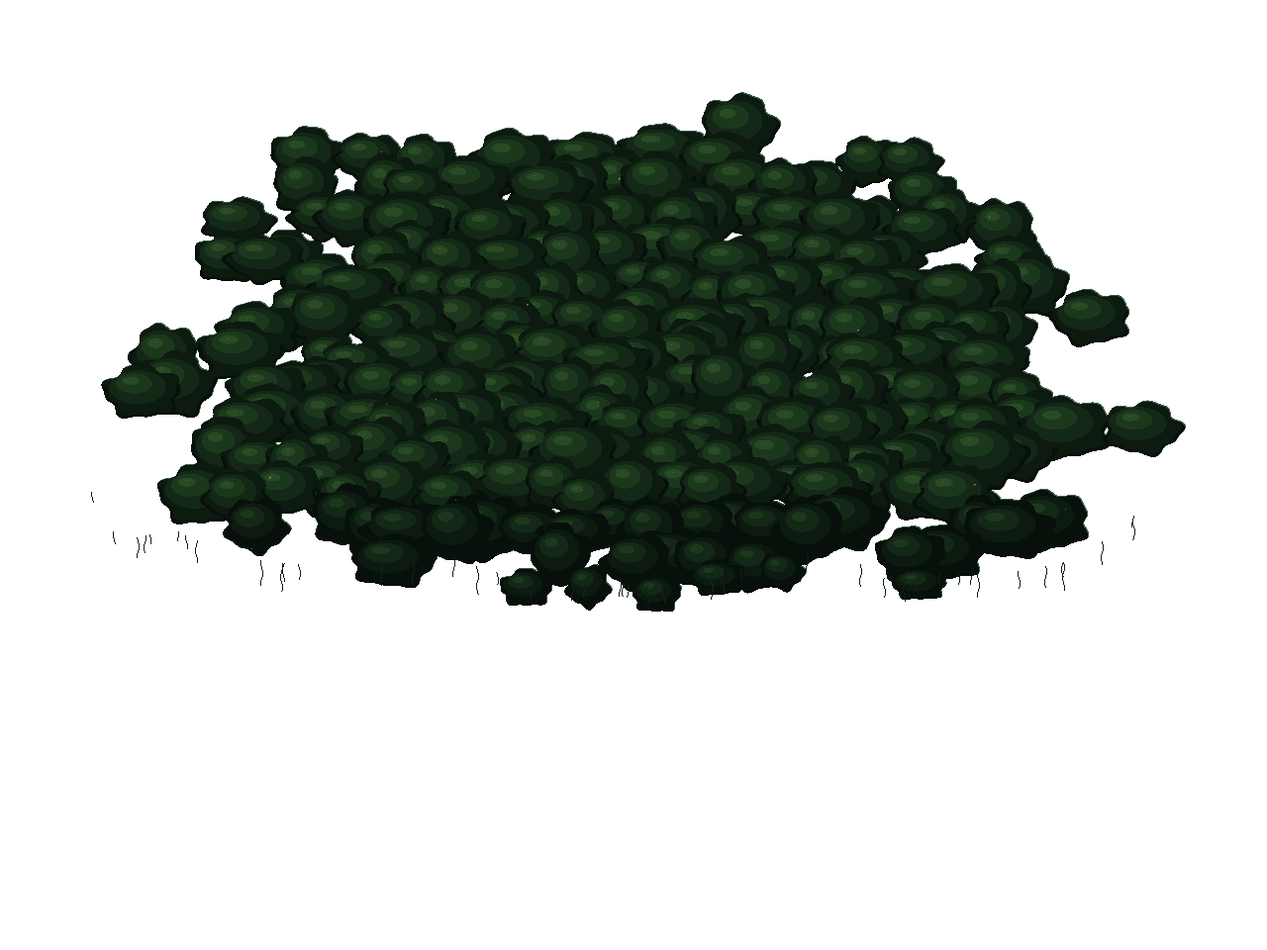
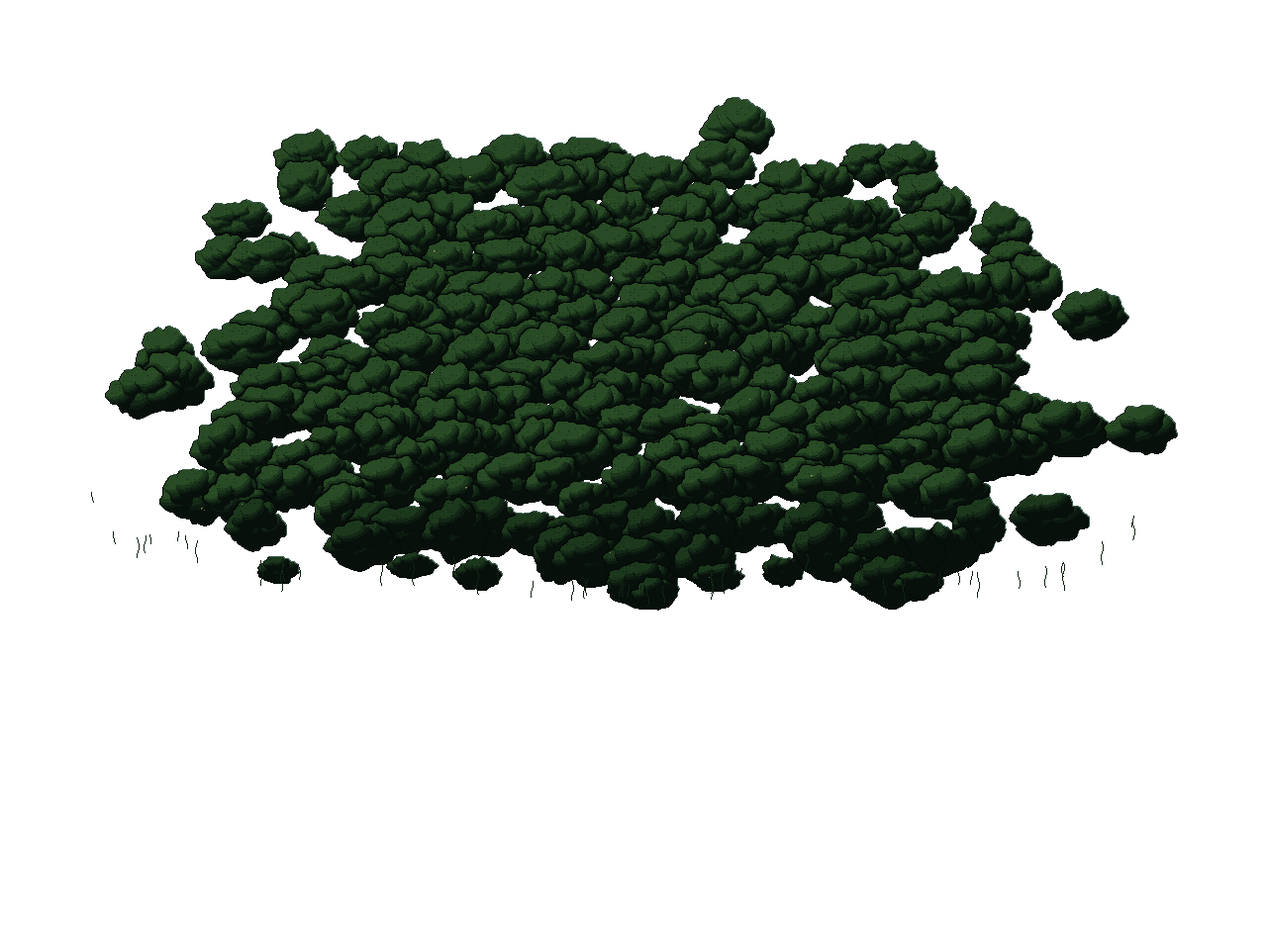
Memory Grove: detailed pixel crown and trunk
Each crown clump is now a cauliflower of bubbles lit from the top left,
with creases under each bump, leaf texture and a dark gap where a lower
clump sits in front; the crown darkens toward its underside. Trunk and
limb strands are shaded cylinders with a lit band and bark lines along
them. Colours unchanged.

Changed region(s): [[0.0625, 0.0938, 0.9375, 0.6562], [0.8438, 0.5312, 0.875, 0.5625], [0.75, 0.5938, 0.7812, 0.625]]

diff --git a/Project_T/tools/meta_art/grove_gen.html b/Project_T/tools/meta_art/grove_gen.html
@@ -7,12 +7,12 @@ const clamp = (v, a, b) => v < a ? a : v > b ? b : v;
 // ---------- art styles ----------
 const STYLES = [
   { id: "waystone", name: "Waystone pixel", short: "current", bands: 99, dither: 1, outline: "dark", px: 1, tone: null,
-    desc: "Full 64 px detail, 4â€“5 tone ramps with light dithering and dark outlines. Matches the Wardens and creatures you already have, so nothing else needs redrawing.",
+    desc: "Full 64 px detail, 4ÃƒÆ’Ã†â€™Ãƒâ€ Ã¢â‚¬â„¢ÃƒÆ’Ã¢â‚¬Å¡Ãƒâ€šÃ‚Â¢ÃƒÆ’Ã†â€™Ãƒâ€šÃ‚Â¢ÃƒÆ’Ã‚Â¢ÃƒÂ¢Ã¢â‚¬Å¡Ã‚Â¬Ãƒâ€¦Ã‚Â¡ÃƒÆ’Ã¢â‚¬Å¡Ãƒâ€šÃ‚Â¬ÃƒÆ’Ã†â€™Ãƒâ€šÃ‚Â¢ÃƒÆ’Ã‚Â¢ÃƒÂ¢Ã¢â€šÂ¬Ã…Â¡Ãƒâ€šÃ‚Â¬ÃƒÆ’Ã¢â‚¬Â¦ÃƒÂ¢Ã¢â€šÂ¬Ã…â€œ5 tone ramps with light dithering and dark outlines. Matches the Wardens and creatures you already have, so nothing else needs redrawing.",
     pro: "Nothing else needs redrawing.", con: "The busiest of the three. A crowded maze reads less clearly when zoomed out." },
-  { id: "storybook", name: "Storybook chunky", short: "32 px at 2Ã—", bands: 3, dither: 0, outline: "self", px: 2,
+  { id: "storybook", name: "Storybook chunky", short: "32 px at 2ÃƒÆ’Ã†â€™Ãƒâ€ Ã¢â‚¬â„¢ÃƒÆ’Ã¢â‚¬Â ÃƒÂ¢Ã¢â€šÂ¬Ã¢â€žÂ¢ÃƒÆ’Ã†â€™Ãƒâ€šÃ‚Â¢ÃƒÆ’Ã‚Â¢ÃƒÂ¢Ã¢â€šÂ¬Ã…Â¡Ãƒâ€šÃ‚Â¬ÃƒÆ’Ã‚Â¢ÃƒÂ¢Ã¢â‚¬Å¡Ã‚Â¬Ãƒâ€šÃ‚Â", bands: 3, dither: 0, outline: "self", px: 2,
     tone: { sat: .82, light: .1, tint: "#fff0dc", mix: .07 },
-    desc: "Drawn at 32 px and shown at 2Ã—. Three flat tones, no dithering, warmer and softer colours, and every object outlined in a darker shade of its own colour instead of a dark line.",
-    pro: "Bold shapes that stay readable zoomed out on a 45Ã—36 map. Soft, warm Wardens stand out well against the dark.", con: "Wardens and creatures would need redrawing at 32 px. The versions in the scene are rough automatic conversions." },
+    desc: "Drawn at 32 px and shown at 2ÃƒÆ’Ã†â€™Ãƒâ€ Ã¢â‚¬â„¢ÃƒÆ’Ã¢â‚¬Â ÃƒÂ¢Ã¢â€šÂ¬Ã¢â€žÂ¢ÃƒÆ’Ã†â€™Ãƒâ€šÃ‚Â¢ÃƒÆ’Ã‚Â¢ÃƒÂ¢Ã¢â€šÂ¬Ã…Â¡Ãƒâ€šÃ‚Â¬ÃƒÆ’Ã‚Â¢ÃƒÂ¢Ã¢â‚¬Å¡Ã‚Â¬Ãƒâ€šÃ‚Â. Three flat tones, no dithering, warmer and softer colours, and every object outlined in a darker shade of its own colour instead of a dark line.",
+    pro: "Bold shapes that stay readable zoomed out on a 45ÃƒÆ’Ã†â€™Ãƒâ€ Ã¢â‚¬â„¢ÃƒÆ’Ã¢â‚¬Â ÃƒÂ¢Ã¢â€šÂ¬Ã¢â€žÂ¢ÃƒÆ’Ã†â€™Ãƒâ€šÃ‚Â¢ÃƒÆ’Ã‚Â¢ÃƒÂ¢Ã¢â€šÂ¬Ã…Â¡Ãƒâ€šÃ‚Â¬ÃƒÆ’Ã‚Â¢ÃƒÂ¢Ã¢â‚¬Å¡Ã‚Â¬Ãƒâ€šÃ‚Â36 map. Soft, warm Wardens stand out well against the dark.", con: "Wardens and creatures would need redrawing at 32 px. The versions in the scene are rough automatic conversions." },
   { id: "papercut", name: "Papercut", short: "flat, no lines", bands: 3, dither: 0, outline: "none", px: 1, shadow: true,
     tone: { sat: .68, light: .06, tint: "#f3ead8", mix: .1 },
     desc: "Full resolution, flat three-tone shapes and no outlines. Each object has a light cut edge and a small offset shadow, like layered paper. Muted colours with a paper tint.",
@@ -135,7 +135,7 @@ function ellipse(L, cx, cy, rx, ry, col) {
       if (dx * dx + dy * dy <= 1) L.set(x, y, typeof col === "function" ? col(x, y, dx, dy) : col);
     }
 }
-// A shaded round mass: sphere lighting from the top left, quantised into the ramp (dark â†’ light).
+// A shaded round mass: sphere lighting from the top left, quantised into the ramp (dark ÃƒÆ’Ã†â€™Ãƒâ€ Ã¢â‚¬â„¢ÃƒÆ’Ã¢â‚¬Å¡Ãƒâ€šÃ‚Â¢ÃƒÆ’Ã†â€™Ãƒâ€šÃ‚Â¢ÃƒÆ’Ã‚Â¢ÃƒÂ¢Ã¢â€šÂ¬Ã…Â¡Ãƒâ€šÃ‚Â¬ÃƒÆ’Ã¢â‚¬Å¡Ãƒâ€šÃ‚Â ÃƒÆ’Ã†â€™Ãƒâ€šÃ‚Â¢ÃƒÆ’Ã‚Â¢ÃƒÂ¢Ã¢â€šÂ¬Ã…Â¡Ãƒâ€šÃ‚Â¬ÃƒÆ’Ã‚Â¢ÃƒÂ¢Ã¢â€šÂ¬Ã…Â¾Ãƒâ€šÃ‚Â¢ light).
 function blob(L, cx, cy, rx, ry, ramp, o = {}) {
   const lump = o.lump || 0, seed = o.seed || 0;
   for (let y = Math.floor(cy - ry * 1.3); y <= Math.ceil(cy + ry * 1.3); y++)
@@ -186,28 +186,28 @@ const BLIGHT = ["#0e0a14", "#1c1626", "#2c2438", "#3e344c", "#5a4e6a"];
 // Dark fairytale: grounds sit low in value and cool; the path is the palest, warmest ramp on the
 // map so it stays the most readable thing; obstacles sit between the two.
 const ACTS = [
-  { id:"edge", n:1, name:"Forest's Edge", drifts:"1â€“25", season:"Spring dusk", boss:"The Hollow Stag",
+  { id:"edge", n:1, name:"Forest's Edge", drifts:"1ÃƒÆ’Ã†â€™Ãƒâ€ Ã¢â‚¬â„¢ÃƒÆ’Ã¢â‚¬Å¡Ãƒâ€šÃ‚Â¢ÃƒÆ’Ã†â€™Ãƒâ€šÃ‚Â¢ÃƒÆ’Ã‚Â¢ÃƒÂ¢Ã¢â‚¬Å¡Ã‚Â¬Ãƒâ€¦Ã‚Â¡ÃƒÆ’Ã¢â‚¬Å¡Ãƒâ€šÃ‚Â¬ÃƒÆ’Ã†â€™Ãƒâ€šÃ‚Â¢ÃƒÆ’Ã‚Â¢ÃƒÂ¢Ã¢â€šÂ¬Ã…Â¡Ãƒâ€šÃ‚Â¬ÃƒÆ’Ã¢â‚¬Â¦ÃƒÂ¢Ã¢â€šÂ¬Ã…â€œ25", season:"Spring dusk", boss:"The Hollow Stag",
     swatch:"#4f7e4c",
     grass:["#14261e","#1c3a2a","#244a32","#33603e","#4f7e4c"],
     canopy:["#0a1410","#142a20","#1e3e2c","#2c5638","#4a7648"],
     bark:["#120c10","#2a1e22","#44323a","#645058"],
     path:["#6a5a58","#8e7e74","#b2a290","#d2c4ac"],
     dots:["#c8b8f0","#f0e8ff","#ffd27a"], accentName:"moonflower" },
-  { id:"deep", n:2, name:"Deep Wood", drifts:"26â€“50", season:"Summer night", boss:"The Mire Hag or the Moth Queen",
+  { id:"deep", n:2, name:"Deep Wood", drifts:"26ÃƒÆ’Ã†â€™Ãƒâ€ Ã¢â‚¬â„¢ÃƒÆ’Ã¢â‚¬Å¡Ãƒâ€šÃ‚Â¢ÃƒÆ’Ã†â€™Ãƒâ€šÃ‚Â¢ÃƒÆ’Ã‚Â¢ÃƒÂ¢Ã¢â‚¬Å¡Ã‚Â¬Ãƒâ€¦Ã‚Â¡ÃƒÆ’Ã¢â‚¬Å¡Ãƒâ€šÃ‚Â¬ÃƒÆ’Ã†â€™Ãƒâ€šÃ‚Â¢ÃƒÆ’Ã‚Â¢ÃƒÂ¢Ã¢â€šÂ¬Ã…Â¡Ãƒâ€šÃ‚Â¬ÃƒÆ’Ã¢â‚¬Â¦ÃƒÂ¢Ã¢â€šÂ¬Ã…â€œ50", season:"Summer night", boss:"The Mire Hag or the Moth Queen",
     swatch:"#386254",
     grass:["#0e1c1c","#142a2a","#1a3634","#244840","#386254"],
     canopy:["#060e0e","#0e2020","#163030","#204440","#346058"],
     bark:["#0e0a0e","#221a20","#3a2e36","#584a52"],
     path:["#5a5260","#7c7280","#9e94a0","#c4bac2"],
     dots:["#8ad8e8","#e0faff","#b0f0c0"], accentName:"glowcap" },
-  { id:"misty", n:3, name:"Misty Hollow", drifts:"51â€“75", season:"Autumn fog", boss:"the other act 2 boss",
+  { id:"misty", n:3, name:"Misty Hollow", drifts:"51ÃƒÆ’Ã†â€™Ãƒâ€ Ã¢â‚¬â„¢ÃƒÆ’Ã¢â‚¬Å¡Ãƒâ€šÃ‚Â¢ÃƒÆ’Ã†â€™Ãƒâ€šÃ‚Â¢ÃƒÆ’Ã‚Â¢ÃƒÂ¢Ã¢â‚¬Å¡Ã‚Â¬Ãƒâ€¦Ã‚Â¡ÃƒÆ’Ã¢â‚¬Å¡Ãƒâ€šÃ‚Â¬ÃƒÆ’Ã†â€™Ãƒâ€šÃ‚Â¢ÃƒÆ’Ã‚Â¢ÃƒÂ¢Ã¢â€šÂ¬Ã…Â¡Ãƒâ€šÃ‚Â¬ÃƒÆ’Ã¢â‚¬Â¦ÃƒÂ¢Ã¢â€šÂ¬Ã…â€œ75", season:"Autumn fog", boss:"the other act 2 boss",
     swatch:"#a85a34",
     grass:["#1c1e1a","#2a2c24","#3a3a2e","#4e4a3a","#6e6450"],
     canopy:["#140a0c","#2e1216","#4e1e1c","#7a3424","#a85a34"],
     bark:["#120a0c","#2a1a1c","#44302e","#644a44"],
     path:["#6a5e62","#8c8084","#aea2a2","#d0c4be"],
     dots:["#c0663a","#e8a060","#f0e0c8"], accentName:"ember leaf" },
-  { id:"glade", n:4, name:"Heartwood Glade", drifts:"76â€“100", season:"Winter dark", boss:"The Hollow Oak",
+  { id:"glade", n:4, name:"Heartwood Glade", drifts:"76ÃƒÆ’Ã†â€™Ãƒâ€ Ã¢â‚¬â„¢ÃƒÆ’Ã¢â‚¬Å¡Ãƒâ€šÃ‚Â¢ÃƒÆ’Ã†â€™Ãƒâ€šÃ‚Â¢ÃƒÆ’Ã‚Â¢ÃƒÂ¢Ã¢â‚¬Å¡Ã‚Â¬Ãƒâ€¦Ã‚Â¡ÃƒÆ’Ã¢â‚¬Å¡Ãƒâ€šÃ‚Â¬ÃƒÆ’Ã†â€™Ãƒâ€šÃ‚Â¢ÃƒÆ’Ã‚Â¢ÃƒÂ¢Ã¢â€šÂ¬Ã…Â¡Ãƒâ€šÃ‚Â¬ÃƒÆ’Ã¢â‚¬Â¦ÃƒÂ¢Ã¢â€šÂ¬Ã…â€œ100", season:"Winter dark", boss:"The Hollow Oak",
     swatch:"#a8b8d0", frozen:true,
     grass:["#1a2230","#28324a","#3a4660","#5a6a86","#a8b8d0"],
     canopy:["#0a1018","#142030","#203048","#6a7e9a","#d8e4f0"],
@@ -219,6 +219,16 @@ let LOST = 0;
 
 let SEED = 1207;
 let ACT = ACTS[0];
+
+
+
+
+
+
+
+
+
+
 
 
 
@@ -361,10 +371,15 @@ function groveTree() {
   roots.forEach((r, i) => thickPath(L, catmull(r, 12), [46, 46, 34, 34, 28, 28, 30][i], 8, rootFn(20 + i)));
   // Twisted strands: each sample's segments are drawn back to front (by where they are in the
   // twist), and each strand's edge is darkened so the strands read apart.
+  // Each strand is a shaded cylinder: dark edges, a lit band toward the key light (top left), and
+  // bark lines running along it, broken into dashes.
   const strandFn = seed => (x, y, nx) => {
-    if (Math.abs(nx) > .82) return HB6[1];
-    const grain = pnoise(x * 3, y, 12, seed) - .5;
-    return pick(HB6.slice(1), clamp(.62 - nx * .5 + grain * .3 + (hash(x, y >> 1, seed) < .05 ? -.2 : 0), 0, 1), x, y, .5);
+    if (Math.abs(nx) > .84) return HB6[1];
+    let t = .6 - nx * .55;
+    if (nx > -.6 && nx < -.28) t += .16;
+    const line = Math.abs(((nx + 1) * 3.5 + (pnoise(x, y, 18, seed) - .5) * .8) % 1 - .5);
+    if (line > .4 && pnoise(x, y, 5, seed + 3) > .35) t -= .22;
+    return pick(HB6.slice(1), clamp(t, 0, 1), x, y, .35);
   };
   const twist = (centre, widthAt, count, turns, seed) => {
     const N = centre.length - 1;
@@ -498,9 +513,9 @@ function grovesky() {
 const CROWN_CLUMPS = (() => {
   const list = [];
   for (let gy = 20; gy < 640; gy += 34) for (let gx = -10; gx < GW + 10; gx += 40) {
-    const x = gx + (hash(gx, gy, 821) - .5) * 26 + (gy / 34 % 2) * 20, y = gy + (hash(gx, gy, 822) - .5) * 18;
+    const x = gx + (hash(gx, gy, 821) - .5) * 26 + (gy / 34 % 2) * 20, y = gy + (hash(gx, gy, 822) - .5) * 26;
     if (!crownIn(x, y)) continue;
-    list.push([x, y, 30 + hash(gx, gy, 823) * 16, 23 + hash(gx, gy, 824) * 10]);
+    list.push([x, y, 30 + hash(gx, gy, 823) * 16, 26 + hash(gx, gy, 824) * 11]);
   }
   // A few clumps hanging below the crown's edge.
   for (let k = 0; k < 16; k++) { const x = 140 + k * 66 + (hash(k, 1, 825) - .5) * 30, y = crownBottom(x) + 4; list.push([x, y, 20 + hash(k, 2, 825) * 8, 16 + hash(k, 3, 825) * 6]); }
@@ -512,25 +527,81 @@ const CROWN_P = ["#050b08", "#07100b", "#0c1a10", "#132816", "#1c381c", "#284a24
 const CROWN_SHARE = [.55, .7, .85, 1];
 const CROWN_RANK = CROWN_CLUMPS.map(([x, y], k) => Math.hypot((x - 640) / 620, (y - 380) / 330) + hash(k, 1, 840) * .35);
 const CROWN_CUT = CROWN_SHARE.map(s => [...CROWN_RANK].sort((a, b) => a - b)[Math.max(0, Math.round(CROWN_RANK.length * s) - 1)]);
-function clump(L, cx, cy, rx, ry, P, seed, dim) {
-  const inE = (x, y, ex, ey, erx, ery) => ((x + .5 - ex) / erx) ** 2 + ((y + .5 - ey) / ery) ** 2 <= 1;
-  for (let y = Math.floor(cy - ry * 1.2); y <= cy + ry * 1.2; y++) for (let x = Math.floor(cx - rx * 1.2); x <= cx + rx * 1.2; x++) {
-    let dx = (x + .5 - cx) / rx, dy = (y + .5 - cy) / ry;
-    const a = Math.atan2(dy, dx), k = 1 + .09 * Math.sin(a * 5 + seed) + .05 * Math.sin(a * 9 + seed * 2);
-    const q = (dx * dx + dy * dy) / (k * k);
-    if (q > 1) continue;
-    let i = 2;
-    if (q > .8 && dy > -.25) i = 1;
-    else if (inE(x, y, cx - .3 * rx, cy - .42 * ry, .22 * rx, .15 * ry)) i = 5;
-    else if (inE(x, y, cx - .22 * rx, cy - .32 * ry, .48 * rx, .38 * ry)) i = 4;
-    else if (inE(x, y, cx - .12 * rx, cy - .18 * ry, .74 * rx, .64 * ry)) i = 3;
-    L.set(x, y, P[Math.max(1, i - dim)]);
+// Each clump is a cauliflower of bubbles: small bumps scalloping its underside (behind), a core,
+// then bumps round its top, lowest first, so the upper ones overlap like puffs of cloud.
+const CROWN_BUBBLES = CROWN_CLUMPS.map(([cx, cy, rx, ry], k) => {
+  const under = [], top = [];
+  for (let i = 0; i < 3; i++) {
+    const a = .45 + i * 1.1 + (hash(k, i, 851) - .5) * .4;
+    under.push([cx + Math.cos(a) * rx * .5, cy + Math.sin(a) * ry * .42, rx * (.3 + hash(k, i, 852) * .1), ry * (.32 + hash(k, i, 853) * .1)]);
   }
-  if (!dim && hash(Math.floor(cx), Math.floor(cy), seed) < .6) { L.set(cx - .32 * rx, cy - .46 * ry, P[6]); L.set(cx - .32 * rx + 1, cy - .46 * ry, P[6]); }
+  const n = 4 + Math.floor(hash(k, 9, 854) * 3);
+  for (let i = 0; i < n; i++) {
+    const a = Math.PI * (1.04 + (i + (hash(k, i, 855) - .5) * .5) / (n - 1) * .92);
+    top.push([cx + Math.cos(a) * rx * .56, cy + Math.sin(a) * ry * .5 + ry * .06, rx * (.32 + hash(k, i, 856) * .14), ry * (.34 + hash(k, i, 857) * .14)]);
+  }
+  // A few puffs sitting on the top bumps: the brightest, frontmost layer.
+  for (let i = 0; i < 2; i++) {
+    const a = Math.PI * (1.3 + i * .35 + (hash(k, i, 858) - .5) * .2);
+    top.push([cx + Math.cos(a) * rx * .3, cy + Math.sin(a) * ry * .42, rx * (.24 + hash(k, i, 859) * .08), ry * (.26 + hash(k, i, 860) * .08)]);
+  }
+  return [...under, [cx, cy + ry * .04, rx * .8, ry * .76], ...top.sort((p, q) => q[1] - p[1])];
+});
+// Draws the crown into per-pixel buffers (who owns each pixel, how lit it is), then shades from
+// them: a dark gap round every clump in front, a crease under every bump, leaf texture, crisp tiers.
+function crownLayer(stage) {
+  const L = new Img(GW, GH), OWN = new Int32Array(GW * GH).fill(-1), LIT = new Float32Array(GW * GH), P = CROWN_P;
+  // Lower clumps in front, so every clump shows its lit top against the shaded underside behind it.
+  const order = CROWN_CLUMPS.map((c, k) => k).filter(k => CROWN_RANK[k] <= CROWN_CUT[stage]).sort((a, b) => CROWN_CLUMPS[a][1] - CROWN_CLUMPS[b][1]);
+  const light = (dx, dy) => { const r2 = Math.min(.98, dx * dx + dy * dy), nz = Math.sqrt(1 - r2); return clamp((-dx * .45 - dy * .75 + nz * .5 + .3) / 1.3, 0, 1); };
+  order.forEach((k, oi) => {
+    const [cx, cy, rx, ry] = CROWN_CLUMPS[k];
+    // Lower in the crown = darker; the far right a touch darker (away from the key light).
+    const base = .1 - (cy - 240) / 640 * .5 - (cx - 560) / 1280 * .12;
+    CROWN_BUBBLES[k].forEach(([bx, by, brx, bry], bi) => {
+      const seed = k * 7 + bi;
+      for (let y = Math.floor(by - bry * 1.15); y <= by + bry * 1.15; y++) for (let x = Math.floor(bx - brx * 1.15); x <= bx + brx * 1.15; x++) {
+        if (x < 0 || y < 0 || x >= GW || y >= GH) continue;
+        const dx = (x + .5 - bx) / brx, dy = (y + .5 - by) / bry, a = Math.atan2(dy, dx);
+        const w = 1 + .08 * Math.sin(a * 4 + seed) + .05 * Math.sin(a * 7 + seed * 1.7);
+        if ((dx * dx + dy * dy) / (w * w) > 1) continue;
+        const i = y * GW + x;
+        OWN[i] = oi * 16 + bi;
+        LIT[i] = light(dx / w, dy / w) * .65 + light((x + .5 - cx) / (rx * 1.1), (y + .5 - cy) / (ry * 1.1)) * .35 + base;
+      }
+    });
+  });
+  for (let y = 0; y < GH; y++) for (let x = 0; x < GW; x++) {
+    const i = y * GW + x, o = OWN[i]; if (o < 0) continue;
+    const t = (LIT[i] - .45) * 1.7 + .5;
+    let tier = clamp(1 + Math.floor(t * 5 + (bay(x, y) - .5) * .3), 1, 5);
+    // A clump in front casts a dark gap: an outline right against it, a shadow falling off behind.
+    let gap = 9;
+    for (let d = 1; d <= 4 && gap > 4; d++) for (const [ex, ey] of [[0, 1], [1, 1], [-1, 1], [1, 0], [-1, 0], [0, -1]]) {
+      const xx = x + ex * d, yy = y + ey * d;
+      if (xx < 0 || yy < 0 || xx >= GW || yy >= GH) continue;
+      const q = OWN[yy * GW + xx]; if (q > o && (q >> 4) !== (o >> 4)) { gap = d; break; }
+    }
+    if (gap === 1) tier = 0; else if (gap <= 4) tier = Math.max(1, tier - (gap <= 2 ? 2 : 1));
+    // A crease under each bump of the same clump (the front bump sits just above).
+    else {
+      const up = y > 0 ? OWN[i - GW] : -1, up2 = y > 1 ? OWN[i - 2 * GW] : -1;
+      if (up > o && (up >> 4) === (o >> 4)) tier = Math.max(1, tier - 2);
+      else if (up2 > o && (up2 >> 4) === (o >> 4)) tier = Math.max(1, tier - 1);
+      // Leaf texture: short dark dashes (gaps between leaves) and a few bright leaf tips on the lit parts.
+      else if (tier >= 3) {
+        const cx = x >> 2, cy = y / 3 | 0, h = hash(cx, cy, 870);
+        if (h < .22 && (x & 3) < 2 && y % 3 === 1) tier -= 1;
+        else if (tier === 5 && h > .9 && (x & 3) === 2 && y % 3 === 0) tier = 6;
+      }
+    }
+    if (tier && CROWN_CLUMPS[order[o >> 4]][1] > 520) tier = Math.max(1, tier - 1);
+    L.set(x, y, P[tier]);
+  }
+  return L;
 }
 function groveCanopy(stage) {
-  const out = new Img(GW, GH), L = new Img(GW, GH), P = CROWN_P;
-  CROWN_CLUMPS.forEach(([x, y, rx, ry], k) => { if (CROWN_RANK[k] <= CROWN_CUT[stage]) clump(L, x, y, rx, ry, P, k * 3 + 1, y > 520 ? 1 : 0); });
+  const out = new Img(GW, GH), L = crownLayer(stage), P = CROWN_P;
   out.stamp(L, P[0]);
   for (let y = 1; y < GH - 1; y++) for (let x = 1; x < GW - 1; x++)
     if (L.alpha(x, y) && !L.alpha(x + 1, y - 1) && L.alpha(x - 1, y + 1)) out.set(x, y, "#3e5e4c");  // moonlit edge

diff --git a/Project_T/tools/meta_art/grove_tree.js b/Project_T/tools/meta_art/grove_tree.js
@@ -138,10 +138,15 @@ function groveTree() {
   roots.forEach((r, i) => thickPath(L, catmull(r, 12), [46, 46, 34, 34, 28, 28, 30][i], 8, rootFn(20 + i)));
   // Twisted strands: each sample's segments are drawn back to front (by where they are in the
   // twist), and each strand's edge is darkened so the strands read apart.
+  // Each strand is a shaded cylinder: dark edges, a lit band toward the key light (top left), and
+  // bark lines running along it, broken into dashes.
   const strandFn = seed => (x, y, nx) => {
-    if (Math.abs(nx) > .82) return HB6[1];
-    const grain = pnoise(x * 3, y, 12, seed) - .5;
-    return pick(HB6.slice(1), clamp(.62 - nx * .5 + grain * .3 + (hash(x, y >> 1, seed) < .05 ? -.2 : 0), 0, 1), x, y, .5);
+    if (Math.abs(nx) > .84) return HB6[1];
+    let t = .6 - nx * .55;
+    if (nx > -.6 && nx < -.28) t += .16;
+    const line = Math.abs(((nx + 1) * 3.5 + (pnoise(x, y, 18, seed) - .5) * .8) % 1 - .5);
+    if (line > .4 && pnoise(x, y, 5, seed + 3) > .35) t -= .22;
+    return pick(HB6.slice(1), clamp(t, 0, 1), x, y, .35);
   };
   const twist = (centre, widthAt, count, turns, seed) => {
     const N = centre.length - 1;
@@ -275,9 +280,9 @@ function grovesky() {
 const CROWN_CLUMPS = (() => {
   const list = [];
   for (let gy = 20; gy < 640; gy += 34) for (let gx = -10; gx < GW + 10; gx += 40) {
-    const x = gx + (hash(gx, gy, 821) - .5) * 26 + (gy / 34 % 2) * 20, y = gy + (hash(gx, gy, 822) - .5) * 18;
+    const x = gx + (hash(gx, gy, 821) - .5) * 26 + (gy / 34 % 2) * 20, y = gy + (hash(gx, gy, 822) - .5) * 26;
     if (!crownIn(x, y)) continue;
-    list.push([x, y, 30 + hash(gx, gy, 823) * 16, 23 + hash(gx, gy, 824) * 10]);
+    list.push([x, y, 30 + hash(gx, gy, 823) * 16, 26 + hash(gx, gy, 824) * 11]);
   }
   // A few clumps hanging below the crown's edge.
   for (let k = 0; k < 16; k++) { const x = 140 + k * 66 + (hash(k, 1, 825) - .5) * 30, y = crownBottom(x) + 4; list.push([x, y, 20 + hash(k, 2, 825) * 8, 16 + hash(k, 3, 825) * 6]); }
@@ -289,25 +294,81 @@ const CROWN_P = ["#050b08", "#07100b", "#0c1a10", "#132816", "#1c381c", "#284a24
 const CROWN_SHARE = [.55, .7, .85, 1];
 const CROWN_RANK = CROWN_CLUMPS.map(([x, y], k) => Math.hypot((x - 640) / 620, (y - 380) / 330) + hash(k, 1, 840) * .35);
 const CROWN_CUT = CROWN_SHARE.map(s => [...CROWN_RANK].sort((a, b) => a - b)[Math.max(0, Math.round(CROWN_RANK.length * s) - 1)]);
-function clump(L, cx, cy, rx, ry, P, seed, dim) {
-  const inE = (x, y, ex, ey, erx, ery) => ((x + .5 - ex) / erx) ** 2 + ((y + .5 - ey) / ery) ** 2 <= 1;
-  for (let y = Math.floor(cy - ry * 1.2); y <= cy + ry * 1.2; y++) for (let x = Math.floor(cx - rx * 1.2); x <= cx + rx * 1.2; x++) {
-    let dx = (x + .5 - cx) / rx, dy = (y + .5 - cy) / ry;
-    const a = Math.atan2(dy, dx), k = 1 + .09 * Math.sin(a * 5 + seed) + .05 * Math.sin(a * 9 + seed * 2);
-    const q = (dx * dx + dy * dy) / (k * k);
-    if (q > 1) continue;
-    let i = 2;
-    if (q > .8 && dy > -.25) i = 1;
-    else if (inE(x, y, cx - .3 * rx, cy - .42 * ry, .22 * rx, .15 * ry)) i = 5;
-    else if (inE(x, y, cx - .22 * rx, cy - .32 * ry, .48 * rx, .38 * ry)) i = 4;
-    else if (inE(x, y, cx - .12 * rx, cy - .18 * ry, .74 * rx, .64 * ry)) i = 3;
-    L.set(x, y, P[Math.max(1, i - dim)]);
+// Each clump is a cauliflower of bubbles: small bumps scalloping its underside (behind), a core,
+// then bumps round its top, lowest first, so the upper ones overlap like puffs of cloud.
+const CROWN_BUBBLES = CROWN_CLUMPS.map(([cx, cy, rx, ry], k) => {
+  const under = [], top = [];
+  for (let i = 0; i < 3; i++) {
+    const a = .45 + i * 1.1 + (hash(k, i, 851) - .5) * .4;
+    under.push([cx + Math.cos(a) * rx * .5, cy + Math.sin(a) * ry * .42, rx * (.3 + hash(k, i, 852) * .1), ry * (.32 + hash(k, i, 853) * .1)]);
   }
-  if (!dim && hash(Math.floor(cx), Math.floor(cy), seed) < .6) { L.set(cx - .32 * rx, cy - .46 * ry, P[6]); L.set(cx - .32 * rx + 1, cy - .46 * ry, P[6]); }
+  const n = 4 + Math.floor(hash(k, 9, 854) * 3);
+  for (let i = 0; i < n; i++) {
+    const a = Math.PI * (1.04 + (i + (hash(k, i, 855) - .5) * .5) / (n - 1) * .92);
+    top.push([cx + Math.cos(a) * rx * .56, cy + Math.sin(a) * ry * .5 + ry * .06, rx * (.32 + hash(k, i, 856) * .14), ry * (.34 + hash(k, i, 857) * .14)]);
+  }
+  // A few puffs sitting on the top bumps: the brightest, frontmost layer.
+  for (let i = 0; i < 2; i++) {
+    const a = Math.PI * (1.3 + i * .35 + (hash(k, i, 858) - .5) * .2);
+    top.push([cx + Math.cos(a) * rx * .3, cy + Math.sin(a) * ry * .42, rx * (.24 + hash(k, i, 859) * .08), ry * (.26 + hash(k, i, 860) * .08)]);
+  }
+  return [...under, [cx, cy + ry * .04, rx * .8, ry * .76], ...top.sort((p, q) => q[1] - p[1])];
+});
+// Draws the crown into per-pixel buffers (who owns each pixel, how lit it is), then shades from
+// them: a dark gap round every clump in front, a crease under every bump, leaf texture, crisp tiers.
+function crownLayer(stage) {
+  const L = new Img(GW, GH), OWN = new Int32Array(GW * GH).fill(-1), LIT = new Float32Array(GW * GH), P = CROWN_P;
+  // Lower clumps in front, so every clump shows its lit top against the shaded underside behind it.
+  const order = CROWN_CLUMPS.map((c, k) => k).filter(k => CROWN_RANK[k] <= CROWN_CUT[stage]).sort((a, b) => CROWN_CLUMPS[a][1] - CROWN_CLUMPS[b][1]);
+  const light = (dx, dy) => { const r2 = Math.min(.98, dx * dx + dy * dy), nz = Math.sqrt(1 - r2); return clamp((-dx * .45 - dy * .75 + nz * .5 + .3) / 1.3, 0, 1); };
+  order.forEach((k, oi) => {
+    const [cx, cy, rx, ry] = CROWN_CLUMPS[k];
+    // Lower in the crown = darker; the far right a touch darker (away from the key light).
+    const base = .1 - (cy - 240) / 640 * .5 - (cx - 560) / 1280 * .12;
+    CROWN_BUBBLES[k].forEach(([bx, by, brx, bry], bi) => {
+      const seed = k * 7 + bi;
+      for (let y = Math.floor(by - bry * 1.15); y <= by + bry * 1.15; y++) for (let x = Math.floor(bx - brx * 1.15); x <= bx + brx * 1.15; x++) {
+        if (x < 0 || y < 0 || x >= GW || y >= GH) continue;
+        const dx = (x + .5 - bx) / brx, dy = (y + .5 - by) / bry, a = Math.atan2(dy, dx);
+        const w = 1 + .08 * Math.sin(a * 4 + seed) + .05 * Math.sin(a * 7 + seed * 1.7);
+        if ((dx * dx + dy * dy) / (w * w) > 1) continue;
+        const i = y * GW + x;
+        OWN[i] = oi * 16 + bi;
+        LIT[i] = light(dx / w, dy / w) * .65 + light((x + .5 - cx) / (rx * 1.1), (y + .5 - cy) / (ry * 1.1)) * .35 + base;
+      }
+    });
+  });
+  for (let y = 0; y < GH; y++) for (let x = 0; x < GW; x++) {
+    const i = y * GW + x, o = OWN[i]; if (o < 0) continue;
+    const t = (LIT[i] - .45) * 1.7 + .5;
+    let tier = clamp(1 + Math.floor(t * 5 + (bay(x, y) - .5) * .3), 1, 5);
+    // A clump in front casts a dark gap: an outline right against it, a shadow falling off behind.
+    let gap = 9;
+    for (let d = 1; d <= 4 && gap > 4; d++) for (const [ex, ey] of [[0, 1], [1, 1], [-1, 1], [1, 0], [-1, 0], [0, -1]]) {
+      const xx = x + ex * d, yy = y + ey * d;
+      if (xx < 0 || yy < 0 || xx >= GW || yy >= GH) continue;
+      const q = OWN[yy * GW + xx]; if (q > o && (q >> 4) !== (o >> 4)) { gap = d; break; }
+    }
+    if (gap === 1) tier = 0; else if (gap <= 4) tier = Math.max(1, tier - (gap <= 2 ? 2 : 1));
+    // A crease under each bump of the same clump (the front bump sits just above).
+    else {
+      const up = y > 0 ? OWN[i - GW] : -1, up2 = y > 1 ? OWN[i - 2 * GW] : -1;
+      if (up > o && (up >> 4) === (o >> 4)) tier = Math.max(1, tier - 2);
+      else if (up2 > o && (up2 >> 4) === (o >> 4)) tier = Math.max(1, tier - 1);
+      // Leaf texture: short dark dashes (gaps between leaves) and a few bright leaf tips on the lit parts.
+      else if (tier >= 3) {
+        const cx = x >> 2, cy = y / 3 | 0, h = hash(cx, cy, 870);
+        if (h < .22 && (x & 3) < 2 && y % 3 === 1) tier -= 1;
+        else if (tier === 5 && h > .9 && (x & 3) === 2 && y % 3 === 0) tier = 6;
+      }
+    }
+    if (tier && CROWN_CLUMPS[order[o >> 4]][1] > 520) tier = Math.max(1, tier - 1);
+    L.set(x, y, P[tier]);
+  }
+  return L;
 }
 function groveCanopy(stage) {
-  const out = new Img(GW, GH), L = new Img(GW, GH), P = CROWN_P;
-  CROWN_CLUMPS.forEach(([x, y, rx, ry], k) => { if (CROWN_RANK[k] <= CROWN_CUT[stage]) clump(L, x, y, rx, ry, P, k * 3 + 1, y > 520 ? 1 : 0); });
+  const out = new Img(GW, GH), L = crownLayer(stage), P = CROWN_P;
   out.stamp(L, P[0]);
   for (let y = 1; y < GH - 1; y++) for (let x = 1; x < GW - 1; x++)
     if (L.alpha(x, y) && !L.alpha(x + 1, y - 1) && L.alpha(x - 1, y + 1)) out.set(x, y, "#3e5e4c");  // moonlit edge

diff --git a/Project_T/documentation/meta_assets.md b/Project_T/documentation/meta_assets.md
@@ -18,8 +18,8 @@ Tree space is **1280×960 px** (native pixels; the screen pans and zooms). Every
 | File | Size | Layout | Use |
 |---|---|---|---|
 | `grove_sky.png` | 1280×960 | 1 | back layer: night sky with stars, the moon (`moon` in the layout) and its halo, a warm glow behind the trunk, two layers of distant forest with fog between |
-| `grove_canopy_0.png` … `_3.png` | 1280×960 each | 1, transparent | **the crown**: one shared mass of bubbly foliage clumps (tiered light on each clump) over all three limbs, so the tree reads as one crown, not three horns. Stage 0 is the core over the limbs (always shown); each stage fills out the edges (about 55 / 70 / 85 / 100% of the clumps) with more lit dream-leaves. Show the stage for the share of nodes owned (e.g. 0–24% → 0), crossfading when it changes |
-| `grove_tree.png` | 1280×960 | 1, transparent | the Heartwood, always shown: ridged roots with pale mushrooms, a twisted three-strand trunk with ivy, knots and the lit hollow, the three great limbs (Perks left, Families middle, Cards right) as twisted strands running up into the crown, a moonlit rim, a **glowing sigil at the base of each limb** (gold ring = Perks, green sprig = Families, violet card = Cards), and **five waystones at the roots** (`loadout_stones`: the loadout slots in the world) |
+| `grove_canopy_0.png` … `_3.png` | 1280×960 each | 1, transparent | **the crown**: one shared mass of cauliflower foliage clumps (each a cluster of bubbles lit from the top left, with creases under each bump, leaf texture, and a dark gap where a lower clump sits in front; the crown darkens toward its underside) over all three limbs, so the tree reads as one crown, not three horns. Stage 0 is the core over the limbs (always shown); each stage fills out the edges (about 55 / 70 / 85 / 100% of the clumps) with more lit dream-leaves. Show the stage for the share of nodes owned (e.g. 0–24% → 0), crossfading when it changes |
+| `grove_tree.png` | 1280×960 | 1, transparent | the Heartwood, always shown: ridged roots with pale mushrooms, a twisted three-strand trunk (each strand a shaded cylinder with a lit band and bark lines along it) with ivy, knots and the lit hollow, the three great limbs (Perks left, Families middle, Cards right) as twisted strands running up into the crown, a moonlit rim, a **glowing sigil at the base of each limb** (gold ring = Perks, green sprig = Families, violet card = Cards), and **five waystones at the roots** (`loadout_stones`: the loadout slots in the world) |
 | `branches/<node_id>.png` | per node | **5 frames**: 0 bare twig (locked), 1–3 the branch growing 25/50/75%, 4 grown | one per node (65); draw at `branch.offset`; planting plays 1→4 |
 | `grove_nodes.png` | 352×96 | 32×32; **rows**: 0 Perks (gold), 1 Families (green), 2 Cards (violet); **columns**: 0 locked bud, 1–4 affordable glow (loop), 5–8 bud opening (play once), 9–10 bloomed (loop) | node sprite, centred on `pos` |
 | `grove_legendary.png` | 528×48 | 48×48, same 11 columns, violet | Legendary tips (Dawnbreak, Full Moon, The Old Ones, Rootbound, The Last Light, The Long Walk) |
